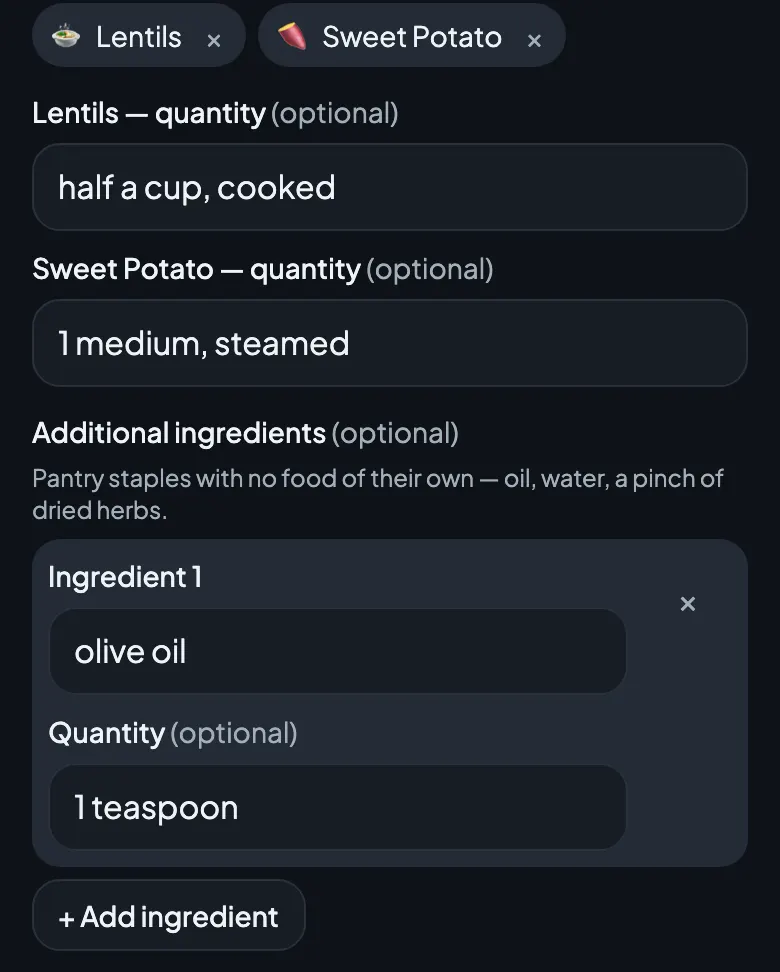
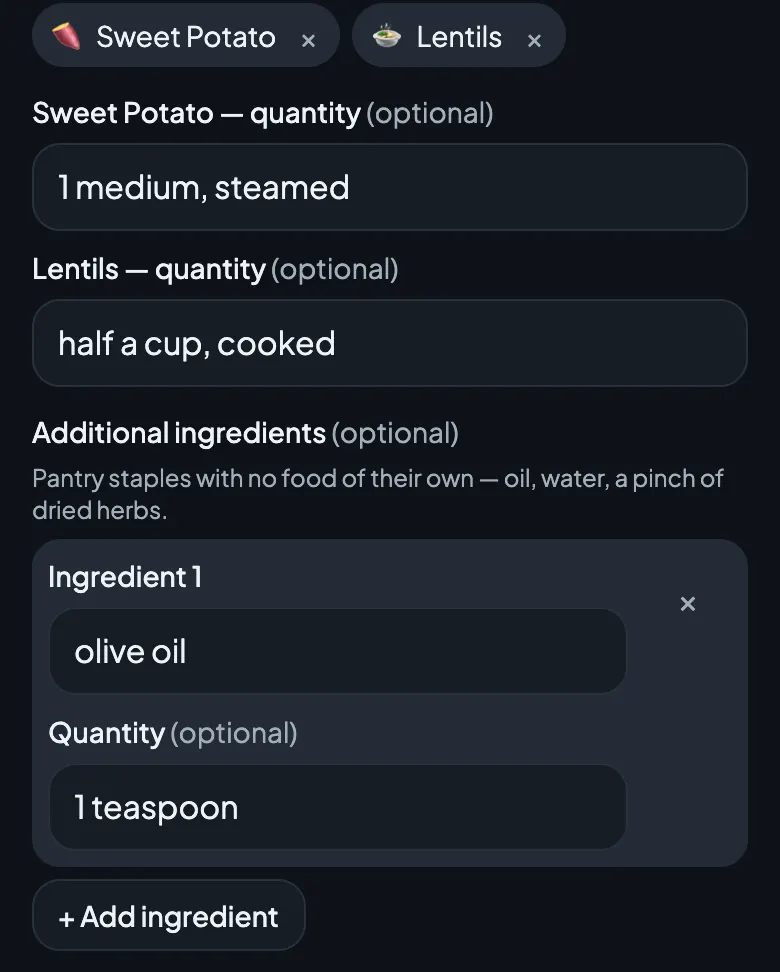
Guides: serve step 1 "servings" + alts; recipe shots in pick order (782)
Serve guide step 1: "Use **−** and **+** to set how many servings your
baby had." Step-1 and step-2 alts as approved. The custom-recipe step-3
alt stays "Sweet Potato and Lentils"; recipe-2-ingredients and
recipe-3-amounts (light + dark) are retaken with Sweet Potato picked
before Lentils, same crop and size. content.test.ts pins updated, and
the step-3 alt is pinned.

diff --git a/client/src/features/safety/content.test.ts b/client/src/features/safety/content.test.ts
@@ -137,16 +137,20 @@ describe("how-to guides (item 601)", () => {
     expect(meal[2]).toContain(
       "![Under Rating (optional), Banana has three stars and Avocado has five, each with a Clear link.](/guides/meal-3-stars.webp)",
     );
+    // Item 782: the step-3 alt stays "Sweet Potato and Lentils"; the shots were retaken in that pick order.
+    expect(steps("how-to-custom-recipe")[2]).toContain(
+      "![Sweet Potato and Lentils each have a quantity filled in, and olive oil is listed under Additional ingredients.](/guides/recipe-3-amounts.webp)",
+    );
     const serve = steps("how-to-serve-from-storage");
     expect(serve[0]).toContain(
-      "\n\nUse **−** and **+** to set how many **Servings** your baby had. **When** defaults to the current time. If you served earlier, tap it, scroll to the day and time, and tap **Done**.\n\n",
+      "\n\nUse **−** and **+** to set how many servings your baby had. **When** defaults to the current time. If you served earlier, tap it, scroll to the day and time, and tap **Done**.\n\n",
     );
     expect(serve[0]).toContain(
-      "![The Serve sheet with Sweet Potato Lentil Patties under Serving, Servings at 1, and When showing today at 11:59 AM.](/guides/serve-1-servings.webp)",
+      "![The Serve sheet with Sweet Potato Lentil Patties under Serving, servings set to 1, and When showing today at 11:59 AM.](/guides/serve-1-servings.webp)",
     );
     // Item 763: several items per serve (ledger 760) get their own step 2.
     expect(serve[1]).toBe(
-      "2. Serve more than one item (optional)\n\nTap **+ Add more** to serve something else with it: another item from storage, or a fresh food or recipe that isn't in storage.\n\n![Under Serving, Sweet Potato Lentil Patties and Broccoli, Carrot each have their own Servings, and a fresh Banana is added.](/guides/serve-2-more.webp)\n\n",
+      "2. Serve more than one item (optional)\n\nTap **+ Add more** to serve something else with it: another item from storage, or a fresh food or recipe that isn't in storage.\n\n![Under Serving, Sweet Potato Lentil Patties and a Broccoli, Carrot container each have their own servings, and a fresh Banana is added.](/guides/serve-2-more.webp)\n\n",
     );
     expect(serve[2]).toMatch(/^3\. Rate it with stars \(optional\)\n\nTap one to five stars, five for a big hit\.\n\n!\[/);
     expect(serve[3]).toMatch(/^4\. Add a reaction or a note \(optional\)\n/);
